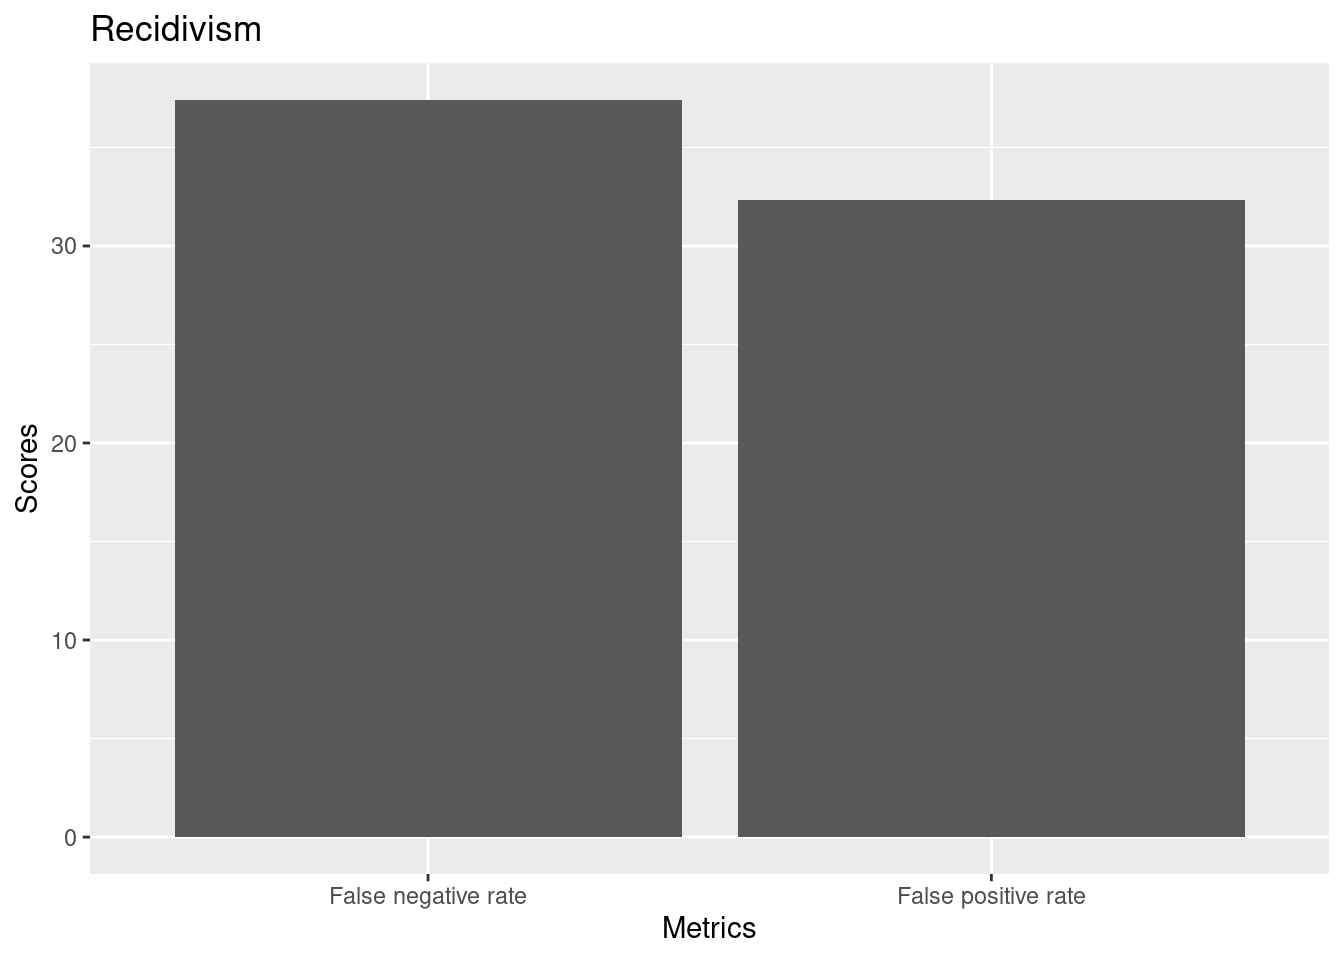
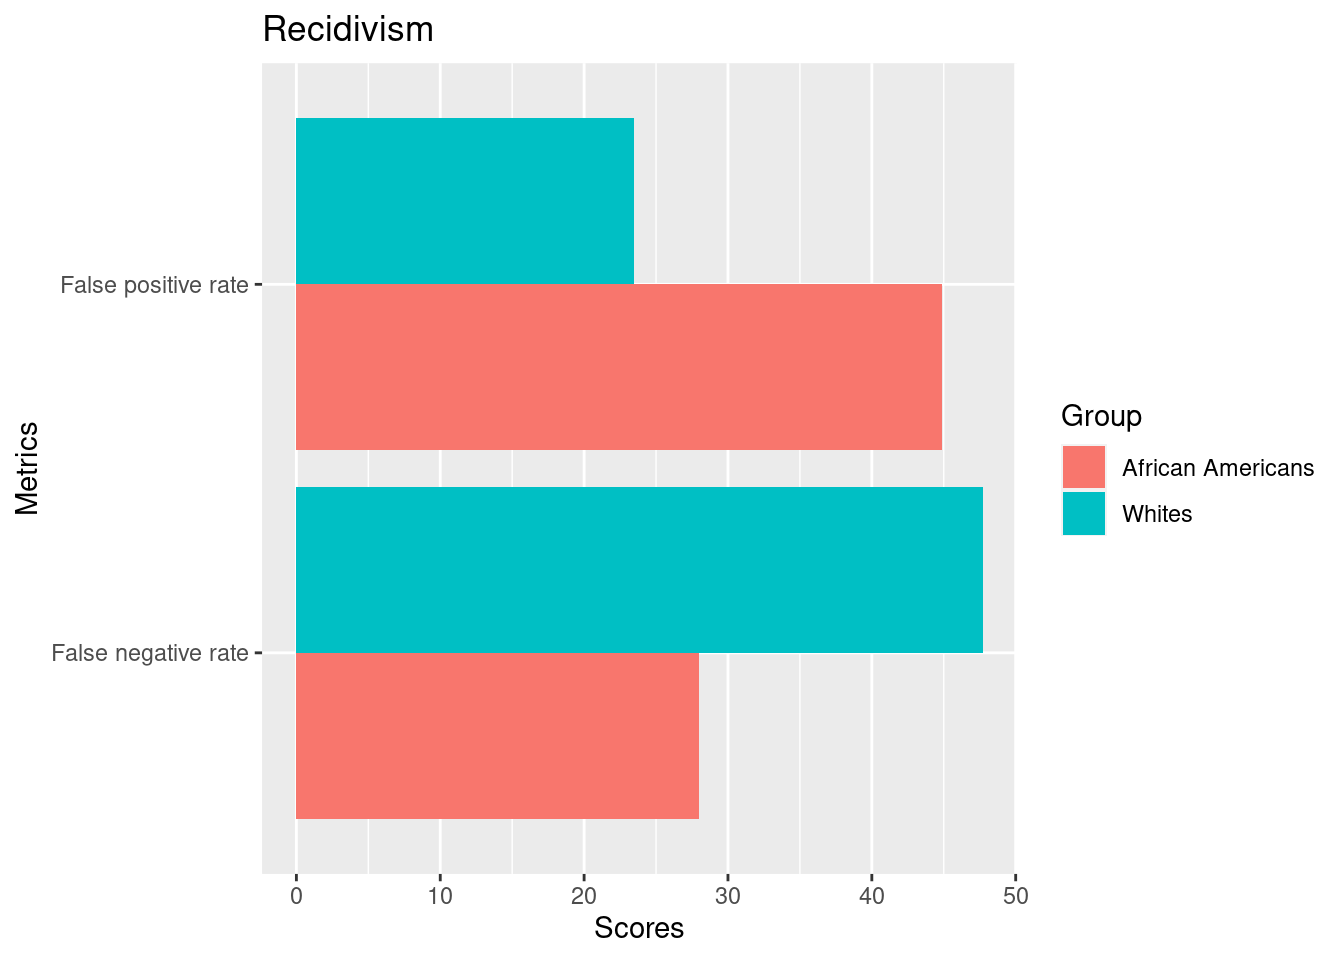
rebuilding site Mon Dec 13 05:49:40 AM KST 2021

diff --git a/03_tidy_data.md b/03_tidy_data.md
@@ -4878,7 +4878,7 @@ tablea %>% flextable::flextable()
 ```
 
 ```{=html}
-<template id="53e6a56b-be23-40dd-b7f5-0dd05aee0afc"><style>
+<template id="0feb0a93-c83e-45d8-9bf1-5e600f75276c"><style>
 .tabwid table{
   border-spacing:0px !important;
   border-collapse:collapse;
@@ -4912,15 +4912,15 @@ tablea %>% flextable::flextable()
 .tabwid table tr {
 background-color: transparent;
 }
-</style><div class="tabwid"><style>.cl-d7cc5356{}.cl-d7c5ef98{font-family:'DejaVu Sans';font-size:11pt;font-weight:normal;font-style:normal;text-decoration:none;color:rgba(0, 0, 0, 1.00);background-color:transparent;}.cl-d7c608a2{margin:0;text-align:left;border-bottom: 0 solid rgba(0, 0, 0, 1.00);border-top: 0 solid rgba(0, 0, 0, 1.00);border-left: 0 solid rgba(0, 0, 0, 1.00);border-right: 0 solid rgba(0, 0, 0, 1.00);padding-bottom:5pt;padding-top:5pt;padding-left:5pt;padding-right:5pt;line-height: 1;background-color:transparent;}.cl-d7c608ac{margin:0;text-align:right;border-bottom: 0 solid rgba(0, 0, 0, 1.00);border-top: 0 solid rgba(0, 0, 0, 1.00);border-left: 0 solid rgba(0, 0, 0, 1.00);border-right: 0 solid rgba(0, 0, 0, 1.00);padding-bottom:5pt;padding-top:5pt;padding-left:5pt;padding-right:5pt;line-height: 1;background-color:transparent;}.cl-d7c6498e{width:54pt;background-color:transparent;vertical-align: middle;border-bottom: 0 solid rgba(0, 0, 0, 1.00);border-top: 0 solid rgba(0, 0, 0, 1.00);border-left: 0 solid rgba(0, 0, 0, 1.00);border-right: 0 solid rgba(0, 0, 0, 1.00);margin-bottom:0;margin-top:0;margin-left:0;margin-right:0;}.cl-d7c64998{width:54pt;background-color:transparent;vertical-align: middle;border-bottom: 0 solid rgba(0, 0, 0, 1.00);border-top: 0 solid rgba(0, 0, 0, 1.00);border-left: 0 solid rgba(0, 0, 0, 1.00);border-right: 0 solid rgba(0, 0, 0, 1.00);margin-bottom:0;margin-top:0;margin-left:0;margin-right:0;}.cl-d7c649a2{width:54pt;background-color:transparent;vertical-align: middle;border-bottom: 2pt solid rgba(102, 102, 102, 1.00);border-top: 0 solid rgba(0, 0, 0, 1.00);border-left: 0 solid rgba(0, 0, 0, 1.00);border-right: 0 solid rgba(0, 0, 0, 1.00);margin-bottom:0;margin-top:0;margin-left:0;margin-right:0;}.cl-d7c649ac{width:54pt;background-color:transparent;vertical-align: middle;border-bottom: 2pt solid rgba(102, 102, 102, 1.00);border-top: 0 solid rgba(0, 0, 0, 1.00);border-left: 0 solid rgba(0, 0, 0, 1.00);border-right: 0 solid rgba(0, 0, 0, 1.00);margin-bottom:0;margin-top:0;margin-left:0;margin-right:0;}.cl-d7c649ad{width:54pt;background-color:transparent;vertical-align: middle;border-bottom: 2pt solid rgba(102, 102, 102, 1.00);border-top: 2pt solid rgba(102, 102, 102, 1.00);border-left: 0 solid rgba(0, 0, 0, 1.00);border-right: 0 solid rgba(0, 0, 0, 1.00);margin-bottom:0;margin-top:0;margin-left:0;margin-right:0;}.cl-d7c649b6{width:54pt;background-color:transparent;vertical-align: middle;border-bottom: 2pt solid rgba(102, 102, 102, 1.00);border-top: 2pt solid rgba(102, 102, 102, 1.00);border-left: 0 solid rgba(0, 0, 0, 1.00);border-right: 0 solid rgba(0, 0, 0, 1.00);margin-bottom:0;margin-top:0;margin-left:0;margin-right:0;}</style><table class='cl-d7cc5356'>
+</style><div class="tabwid"><style>.cl-e431b464{}.cl-e42c57a8{font-family:'DejaVu Sans';font-size:11pt;font-weight:normal;font-style:normal;text-decoration:none;color:rgba(0, 0, 0, 1.00);background-color:transparent;}.cl-e42c6aea{margin:0;text-align:left;border-bottom: 0 solid rgba(0, 0, 0, 1.00);border-top: 0 solid rgba(0, 0, 0, 1.00);border-left: 0 solid rgba(0, 0, 0, 1.00);border-right: 0 solid rgba(0, 0, 0, 1.00);padding-bottom:5pt;padding-top:5pt;padding-left:5pt;padding-right:5pt;line-height: 1;background-color:transparent;}.cl-e42c6aeb{margin:0;text-align:right;border-bottom: 0 solid rgba(0, 0, 0, 1.00);border-top: 0 solid rgba(0, 0, 0, 1.00);border-left: 0 solid rgba(0, 0, 0, 1.00);border-right: 0 solid rgba(0, 0, 0, 1.00);padding-bottom:5pt;padding-top:5pt;padding-left:5pt;padding-right:5pt;line-height: 1;background-color:transparent;}.cl-e42c9c2c{width:54pt;background-color:transparent;vertical-align: middle;border-bottom: 0 solid rgba(0, 0, 0, 1.00);border-top: 0 solid rgba(0, 0, 0, 1.00);border-left: 0 solid rgba(0, 0, 0, 1.00);border-right: 0 solid rgba(0, 0, 0, 1.00);margin-bottom:0;margin-top:0;margin-left:0;margin-right:0;}.cl-e42c9c36{width:54pt;background-color:transparent;vertical-align: middle;border-bottom: 0 solid rgba(0, 0, 0, 1.00);border-top: 0 solid rgba(0, 0, 0, 1.00);border-left: 0 solid rgba(0, 0, 0, 1.00);border-right: 0 solid rgba(0, 0, 0, 1.00);margin-bottom:0;margin-top:0;margin-left:0;margin-right:0;}.cl-e42c9c37{width:54pt;background-color:transparent;vertical-align: middle;border-bottom: 2pt solid rgba(102, 102, 102, 1.00);border-top: 0 solid rgba(0, 0, 0, 1.00);border-left: 0 solid rgba(0, 0, 0, 1.00);border-right: 0 solid rgba(0, 0, 0, 1.00);margin-bottom:0;margin-top:0;margin-left:0;margin-right:0;}.cl-e42c9c40{width:54pt;background-color:transparent;vertical-align: middle;border-bottom: 2pt solid rgba(102, 102, 102, 1.00);border-top: 0 solid rgba(0, 0, 0, 1.00);border-left: 0 solid rgba(0, 0, 0, 1.00);border-right: 0 solid rgba(0, 0, 0, 1.00);margin-bottom:0;margin-top:0;margin-left:0;margin-right:0;}.cl-e42c9c41{width:54pt;background-color:transparent;vertical-align: middle;border-bottom: 2pt solid rgba(102, 102, 102, 1.00);border-top: 2pt solid rgba(102, 102, 102, 1.00);border-left: 0 solid rgba(0, 0, 0, 1.00);border-right: 0 solid rgba(0, 0, 0, 1.00);margin-bottom:0;margin-top:0;margin-left:0;margin-right:0;}.cl-e42c9c4a{width:54pt;background-color:transparent;vertical-align: middle;border-bottom: 2pt solid rgba(102, 102, 102, 1.00);border-top: 2pt solid rgba(102, 102, 102, 1.00);border-left: 0 solid rgba(0, 0, 0, 1.00);border-right: 0 solid rgba(0, 0, 0, 1.00);margin-bottom:0;margin-top:0;margin-left:0;margin-right:0;}</style><table class='cl-e431b464'>
 ```
 
 ```{=html}
-<thead><tr style="overflow-wrap:break-word;"><td class="cl-d7c649ad"><p class="cl-d7c608a2"><span class="cl-d7c5ef98">continent</span></p></td><td class="cl-d7c649b6"><p class="cl-d7c608ac"><span class="cl-d7c5ef98">n</span></p></td><td class="cl-d7c649b6"><p class="cl-d7c608ac"><span class="cl-d7c5ef98">mean_gdp</span></p></td><td class="cl-d7c649b6"><p class="cl-d7c608ac"><span class="cl-d7c5ef98">sd_gdp</span></p></td></tr></thead><tbody><tr style="overflow-wrap:break-word;"><td class="cl-d7c6498e"><p class="cl-d7c608a2"><span class="cl-d7c5ef98">Africa</span></p></td><td class="cl-d7c64998"><p class="cl-d7c608ac"><span class="cl-d7c5ef98">624</span></p></td><td class="cl-d7c64998"><p class="cl-d7c608ac"><span class="cl-d7c5ef98">2,193.755</span></p></td><td class="cl-d7c64998"><p class="cl-d7c608ac"><span class="cl-d7c5ef98">2,827.930</span></p></td></tr><tr style="overflow-wrap:break-word;"><td class="cl-d7c6498e"><p class="cl-d7c608a2"><span class="cl-d7c5ef98">Americas</span></p></td><td class="cl-d7c64998"><p class="cl-d7c608ac"><span class="cl-d7c5ef98">300</span></p></td><td class="cl-d7c64998"><p class="cl-d7c608ac"><span class="cl-d7c5ef98">7,136.110</span></p></td><td class="cl-d7c64998"><p class="cl-d7c608ac"><span class="cl-d7c5ef98">6,396.764</span></p></td></tr><tr style="overflow-wrap:break-word;"><td class="cl-d7c6498e"><p class="cl-d7c608a2"><span class="cl-d7c5ef98">Asia</span></p></td><td class="cl-d7c64998"><p class="cl-d7c608ac"><span class="cl-d7c5ef98">396</span></p></td><td class="cl-d7c64998"><p class="cl-d7c608ac"><span class="cl-d7c5ef98">7,902.150</span></p></td><td class="cl-d7c64998"><p class="cl-d7c608ac"><span class="cl-d7c5ef98">14,045.373</span></p></td></tr><tr style="overflow-wrap:break-word;"><td class="cl-d7c6498e"><p class="cl-d7c608a2"><span class="cl-d7c5ef98">Europe</span></p></td><td class="cl-d7c64998"><p class="cl-d7c608ac"><span class="cl-d7c5ef98">360</span></p></td><td class="cl-d7c64998"><p class="cl-d7c608ac"><span class="cl-d7c5ef98">14,469.476</span></p></td><td class="cl-d7c64998"><p class="cl-d7c608ac"><span class="cl-d7c5ef98">9,355.213</span></p></td></tr><tr style="overflow-wrap:break-word;"><td class="cl-d7c649a2"><p class="cl-d7c608a2"><span class="cl-d7c5ef98">Oceania</span></p></td><td class="cl-d7c649ac"><p class="cl-d7c608ac"><span class="cl-d7c5ef98">24</span></p></td><td class="cl-d7c649ac"><p class="cl-d7c608ac"><span class="cl-d7c5ef98">18,621.609</span></p></td><td class="cl-d7c649ac"><p class="cl-d7c608ac"><span class="cl-d7c5ef98">6,358.983</span></p></td></tr></tbody></table></div></template>
-<div class="flextable-shadow-host" id="f4e07506-678b-450f-8d33-979d4a19a223"></div>
+<thead><tr style="overflow-wrap:break-word;"><td class="cl-e42c9c41"><p class="cl-e42c6aea"><span class="cl-e42c57a8">continent</span></p></td><td class="cl-e42c9c4a"><p class="cl-e42c6aeb"><span class="cl-e42c57a8">n</span></p></td><td class="cl-e42c9c4a"><p class="cl-e42c6aeb"><span class="cl-e42c57a8">mean_gdp</span></p></td><td class="cl-e42c9c4a"><p class="cl-e42c6aeb"><span class="cl-e42c57a8">sd_gdp</span></p></td></tr></thead><tbody><tr style="overflow-wrap:break-word;"><td class="cl-e42c9c2c"><p class="cl-e42c6aea"><span class="cl-e42c57a8">Africa</span></p></td><td class="cl-e42c9c36"><p class="cl-e42c6aeb"><span class="cl-e42c57a8">624</span></p></td><td class="cl-e42c9c36"><p class="cl-e42c6aeb"><span class="cl-e42c57a8">2,193.755</span></p></td><td class="cl-e42c9c36"><p class="cl-e42c6aeb"><span class="cl-e42c57a8">2,827.930</span></p></td></tr><tr style="overflow-wrap:break-word;"><td class="cl-e42c9c2c"><p class="cl-e42c6aea"><span class="cl-e42c57a8">Americas</span></p></td><td class="cl-e42c9c36"><p class="cl-e42c6aeb"><span class="cl-e42c57a8">300</span></p></td><td class="cl-e42c9c36"><p class="cl-e42c6aeb"><span class="cl-e42c57a8">7,136.110</span></p></td><td class="cl-e42c9c36"><p class="cl-e42c6aeb"><span class="cl-e42c57a8">6,396.764</span></p></td></tr><tr style="overflow-wrap:break-word;"><td class="cl-e42c9c2c"><p class="cl-e42c6aea"><span class="cl-e42c57a8">Asia</span></p></td><td class="cl-e42c9c36"><p class="cl-e42c6aeb"><span class="cl-e42c57a8">396</span></p></td><td class="cl-e42c9c36"><p class="cl-e42c6aeb"><span class="cl-e42c57a8">7,902.150</span></p></td><td class="cl-e42c9c36"><p class="cl-e42c6aeb"><span class="cl-e42c57a8">14,045.373</span></p></td></tr><tr style="overflow-wrap:break-word;"><td class="cl-e42c9c2c"><p class="cl-e42c6aea"><span class="cl-e42c57a8">Europe</span></p></td><td class="cl-e42c9c36"><p class="cl-e42c6aeb"><span class="cl-e42c57a8">360</span></p></td><td class="cl-e42c9c36"><p class="cl-e42c6aeb"><span class="cl-e42c57a8">14,469.476</span></p></td><td class="cl-e42c9c36"><p class="cl-e42c6aeb"><span class="cl-e42c57a8">9,355.213</span></p></td></tr><tr style="overflow-wrap:break-word;"><td class="cl-e42c9c37"><p class="cl-e42c6aea"><span class="cl-e42c57a8">Oceania</span></p></td><td class="cl-e42c9c40"><p class="cl-e42c6aeb"><span class="cl-e42c57a8">24</span></p></td><td class="cl-e42c9c40"><p class="cl-e42c6aeb"><span class="cl-e42c57a8">18,621.609</span></p></td><td class="cl-e42c9c40"><p class="cl-e42c6aeb"><span class="cl-e42c57a8">6,358.983</span></p></td></tr></tbody></table></div></template>
+<div class="flextable-shadow-host" id="3fa67bb8-d89c-48e6-b22a-bce8975fc369"></div>
 <script>
-var dest = document.getElementById("f4e07506-678b-450f-8d33-979d4a19a223");
-var template = document.getElementById("53e6a56b-be23-40dd-b7f5-0dd05aee0afc");
+var dest = document.getElementById("3fa67bb8-d89c-48e6-b22a-bce8975fc369");
+var template = document.getElementById("0feb0a93-c83e-45d8-9bf1-5e600f75276c");
 var caption = template.content.querySelector("caption");
 if(caption) {
   caption.style.cssText = "display:block;text-align:center;";

diff --git a/07_high_dimensional_data.knit.md b/07_high_dimensional_data.knit.md
@@ -3516,11 +3516,6 @@ def create_table(x, y):
 - All defenders 
 
 
-```python
-create_table(list(recid), list(surv)).to_csv("data/table_recid.csv")
-```
-
-
 ```r
 read.csv(here("data", "table_recid.csv"))[, -1] %>%
   ggplot(aes(x = Metrics, y = Scores)) +
@@ -3528,13 +3523,24 @@ read.csv(here("data", "table_recid.csv"))[, -1] %>%
   labs(title = "Recidivism")
 ```
 
-<img src="07_high_dimensional_data_files/figure-html/unnamed-chunk-125-1.png" width="672" />
+<img src="07_high_dimensional_data_files/figure-html/unnamed-chunk-124-1.png" width="672" />
 
 That number is higher for African Americans at 44.85% and lower for whites at 23.45%.
 
 
+```r
+read.csv(here("data", "comp_tables_recid.csv"))[, -1] %>%
+  ggplot(aes(x = Metrics, y = Scores, fill = Group)) +
+  geom_col(position = "dodge") +
+  coord_flip() +
+  labs(title = "Recidivism")
+```
 
+<img src="07_high_dimensional_data_files/figure-html/unnamed-chunk-125-1.png" width="672" />
 
+#### Risk of Violent Recidivism accuracy
+
+COMPAS also offers a score that aims to measure a person's risk of violent recidivism, which has similar overall accuracy to the Recidivism score.
 
 
 
